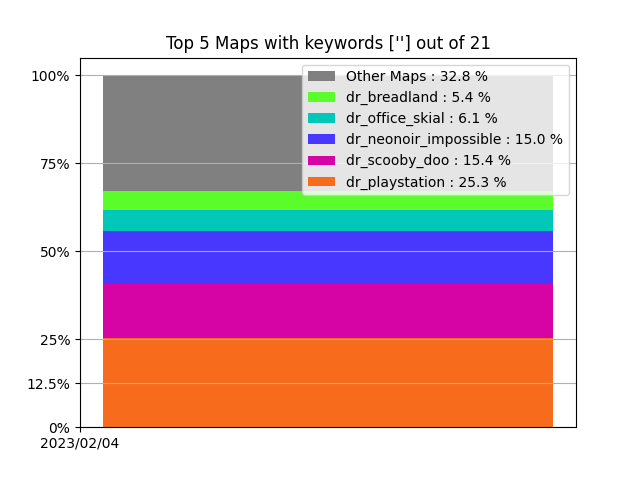
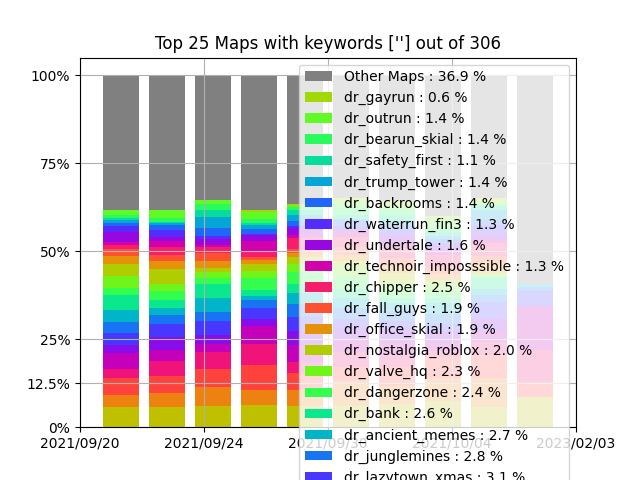
Fixed labels being in wrong places. Changed way percentages are calculated.

diff --git a/read.py b/read.py
@@ -3,7 +3,6 @@ from math import pi
 import numpy as np
 import csv
 import re
-from statistics import mean 
 from datetime import datetime, timedelta
 import os
 from R6LIB import dictmerger,dictmax,dictlimx,arrayrectifier,weakfiller
@@ -29,19 +28,35 @@ def ColorGen():
         col = p.ColorForOtherMaps
     return col
 #Using MatPlotLib this will draw the actual visual side of the output.
-def plotdraw(_X,_Y,_label):
-    Labels.append(f"{_label} : {round(100*mean(_Y),1)} %")
+def plotdraw(_X,_label):
     global previousmap
+    global percentageSanity
     col = ColorGen()
 
-    if(type(previousmap) is not type(None)):
+    if(force):
+        labelpercn = round(100-percentageSanity,p.Percision)
+        Labels.append(f"{_label} : {labelpercn} %")
         previousmap = previousmap.tolist()
         Handles.append(plt.bar(np.arange(len(_Y)),_Y, color=col,bottom=previousmap[0:len(_Y)]))
-        previousmap = previousmap[0:len(_Y)]+np.array(_Y)
+        previousmap = previousmap+np.array(_Y)
+        percentageSanity += labelpercn
+        #print(percentageSanity)
+
+
+    elif(type(previousmap) is not type(None)):
+        labelpercn = round(100*(sum(_Y)/sum(YMAX)),p.Percision)
+        Labels.append(f"{_label} : {labelpercn} %")
+        previousmap = previousmap.tolist()
+        Handles.append(plt.bar(np.arange(len(_Y)),_Y/YMAX, color=col,bottom=previousmap[0:len(_Y)]))
+        previousmap = previousmap+np.array(_Y/YMAX)
+        percentageSanity += labelpercn
 
     else:
-        Handles.append(plt.bar(np.arange(len(_Y)),_Y, color=col))
-        previousmap = np.array(_Y)
+        labelpercn = round(100*(sum(_Y)/sum(YMAX)),p.Percision)
+        Labels.append(f"{_label} : {labelpercn} %")
+        Handles.append(plt.bar(np.arange(len(_Y)),_Y/YMAX, color=col))
+        previousmap = np.array(_Y/YMAX)
+        percentageSanity += labelpercn
 
 
     
@@ -137,7 +152,11 @@ def plotter():
     global force
     global Labels
     global Handles
+    global YMAX
+    global _Y
+    global percentageSanity
 
+    percentageSanity = 0
     Labels = []
     Handles = []
     force = False
@@ -180,13 +199,14 @@ def plotter():
 
     #create a filler for the other maps not displayed
     NAMEY = zip(TopMaps,Transpose_YLIST)
-    for mapname,_Y in NAMEY:
-        _YNORMALIZED = _Y/YMAX
-        plotdraw(X,_YNORMALIZED,mapname)
+    for mapname,YCUR in NAMEY:
+        _Y = YCUR
+        plotdraw(X,mapname)
 
     if(type(previousmap) is not type(None) and len(TopMaps) != mapcount):
         force = True
-        plotdraw(X,np.ones((len(previousmap)), dtype=int)-previousmap,"Other Maps")
+        _Y = np.ones((len(previousmap)), dtype=int)-previousmap
+        plotdraw(X,"Other Maps")
         plt.title(f"Top {len(TopMaps)} Maps with keywords {p.OnlyMapsContaining} out of {mapcount}")
         plt.legend(list(reversed(Handles)),list(reversed(Labels)))
         plt.grid(True)

diff --git a/Parameters.py b/Parameters.py
@@ -15,6 +15,7 @@ wordfilter = ["fix","final","redux","finished","remake","optimized","finalplus",
 versionfilter = ["v","b","a","rc","x","f"] #Will not consider maps with these version suffixes to be unique. "v" would mean v0-v99,v and 0v-99v
 
 #Advanced Parameters
+Percision = 1 #How many digits to display in map labels for percentage
 timeout_query = 1 #How long to wait for each individual server to respond during slow search
 timeout_master = 1 #How long to wait for the master server to respond during slow search
 regionserver= "all" #Looks for servers in a specfic region

diff --git a/R6LIB.py b/R6LIB.py
@@ -1,6 +1,5 @@
 import operator
 import numpy as np
-from collections import OrderedDict
 def arraypadder(arr1,arr2):
     arr1 = list(arr1)
     arr2 = list(arr2)
@@ -75,4 +74,3 @@ def dictlimx(dict1,keylist): # remove keyvalue pairs not in keylist
             x = dict1[key]
             dict2.update({key:x})
     return dict2
-
